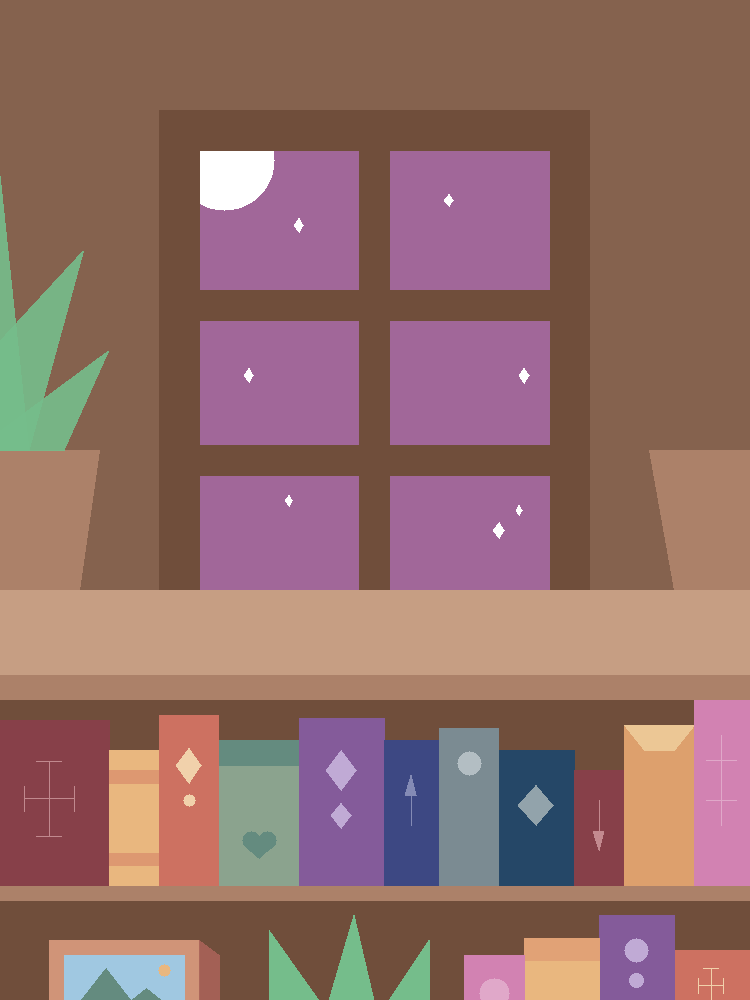
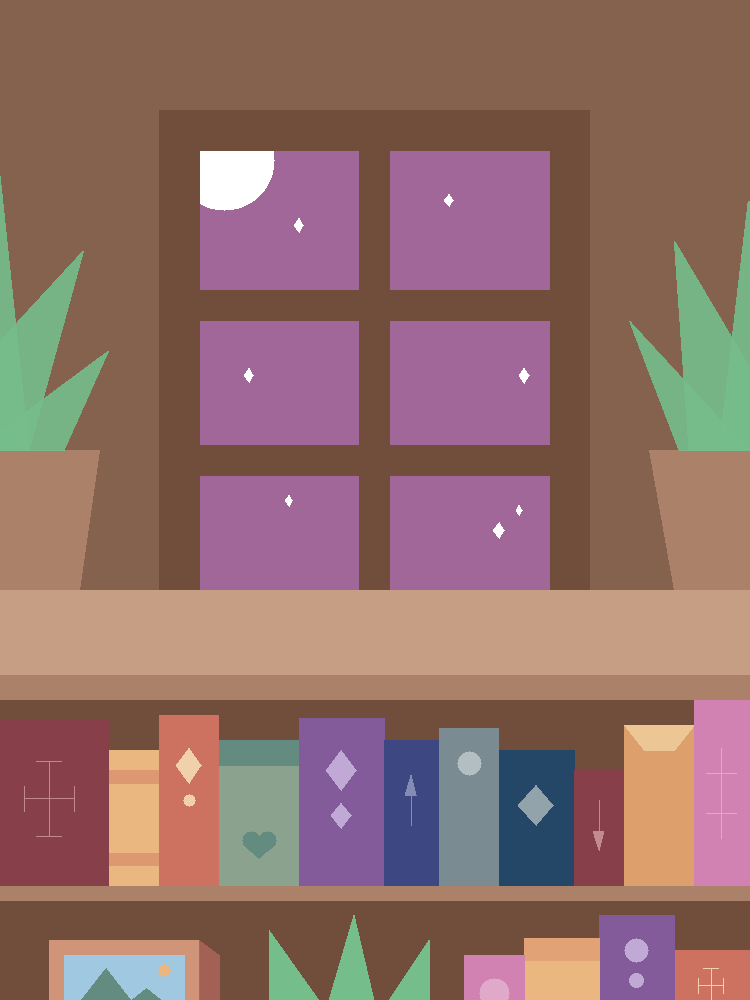
Added leaves to right plant pot

Changed region(s): [[0.8587, 0.186, 1.0, 0.465], [0.828, 0.31, 0.8587, 0.341]]

diff --git a/main.cpp b/main.cpp
@@ -77,7 +77,13 @@ int main()
 	image.line(650, 550, 675, 410, 0.6745, 0.5059, 0.4118);
 	image.line(650, 550, 750, 550, 0.6745, 0.5059, 0.4118);
 	image.line(650, 410, 750, 410, 0.6745, 0.5059, 0.4118);
-	image.flood_fill(700, 450, 0.675, 0.506, 0.412);
+	image.flood_fill(700, 450, 0.675, 0.506, 0.412);     
+
+	// Right Plant Leaves
+	image.filledtriangle_blend(680, 550, 630, 680, 750, 550, 0.9, 0.459, 0.741, 0.545);
+	image.filledtriangle_blend(690, 550, 675, 760, 800, 550, 0.9, 0.459, 0.741, 0.545);
+	image.filledtriangle_blend(720, 550, 750, 800, 780, 550, 0.9, 0.459, 0.741, 0.545);
+
 
 	// Book Shelf
 	image.filledsquare(0, 0, width, 410, 0.7765, 0.6196, 0.5137); // Top
